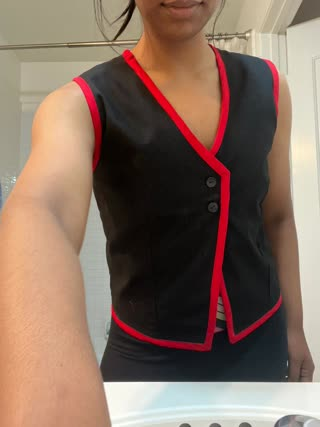
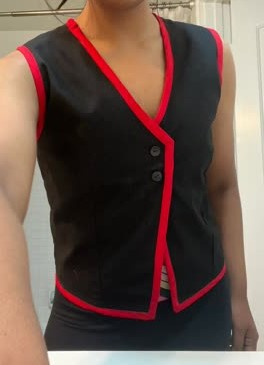
officially set up the pages and now must format headers

diff --git a/2D.html b/2D.html
@@ -7,7 +7,6 @@
     <link rel="stylesheet" href="2D.css">
     <!-- Add icon library -->
 <link rel="stylesheet" href="https://cdnjs.cloudflare.com/ajax/libs/font-awesome/4.7.0/css/font-awesome.min.css">
-<script src="2D.js" defer></script>
 </head>
 <body style="margin:0;">
 
@@ -18,7 +17,7 @@
     <h1><a href="Oil.html">Oil Painting</a></h1>
 
     <div class="marquee">
-      <ul class="marquee-content">
+      <ul class="placeholder">
         <li><img src="EA_B3_P17_Small.jpeg" alt="Gallery image 1" class="img"></li>
         <li><img src="EA_B3_P16_Small.jpeg" alt="Gallery image 1" class="img"></li>
         <li><img src="EA_B3_P14_Small.jpeg" alt="Gallery image 1" class="img"></li>
@@ -34,7 +33,7 @@
       <h1><a href="Watercolor.html">Watercolor</a></h1>
 
     <div class="marquee">
-      <ul class="marquee-content2">
+      <ul class="placeholder">
         <li><img src="WC_P_1.jpeg" alt="Gallery image 2" class="img"></li>
         <li><img src="WC_Cow_Small.jpeg" alt="Gallery image 2" class="img"></li>
         <li><img src="WC_Robin_Small.jpeg" alt="Gallery image 2" class="img"></li>
@@ -51,9 +50,9 @@
 
     <div class="marquee">
       <ul class="placeholder">
-        <li><img src="Acrylic_Airplane_Small.jpeg" alt="Gallery image 2" class="img"></li>
-        <li><img src="Acrylic_Rose_Small.jpeg" alt="Gallery image 2" class="img"></li>
-        <li><img src="Acrylic_TigerEye_Small.jpeg" alt="Gallery image 2" class="img"></li>
+        <li><img src="Airplane_Acrylic_Small.jpeg" alt="Gallery image 2" class="img"></li>
+        <li><img src="Rose_Acrylic_Small.jpeg" alt="Gallery image 2" class="img"></li>
+        <li><img src="TigerEye_Acrylic_Small.jpeg" alt="Gallery image 2" class="img"></li>
       </ul>
     </div>
 
@@ -75,6 +74,8 @@
     <div class="marquee">
       <ul class="placeholder">
       <li><img src="Woodburning_1_Small.jpeg" alt="Gallery image 1" class="img"></li>
+      <li><img src="Horse_WB_Small.jpeg" alt="Gallery image 1" class="img"></li>
+      <li><img src="Butterfly_WB_Small.jpeg" alt="Gallery image 1" class="img"></li>
       </ul>
     </div>
 

diff --git a/Acrylic.html b/Acrylic.html
@@ -16,9 +16,9 @@
         <button class="btn" onclick = "window.location.href='index.html';"><i class="fa fa-home"></i></button>
 
         <div class = "image-grid">
-            <img src="Acrylic_Airplane_Small.jpeg" alt="Gallery image 3" class="img">
-            <img src="Acrylic_TigerEye_Small.jpeg" alt="Gallery image 3" class="img">
-            <img src="Acrylic_Rose_Small.jpeg" alt="Gallery image 3" class="img">
+            <img src="Airplane_Acrylic_Small.jpeg" alt="Gallery image 3" class="img">
+            <img src="TigerEye_Acrylic_Small.jpeg" alt="Gallery image 3" class="img">
+            <img src="Rose_Acrylic_Small.jpeg" alt="Gallery image 3" class="img">
           </div>
 
     </div>

diff --git a/2D.css b/2D.css
@@ -50,33 +50,6 @@
 animation-play-state: paused;
 }
 
-.marquee-content2 {
-  list-style: none;
-  display: flex;
-  animation: scrolling var(--marquee-animation-duration) linear infinite;
-  height: 100%;
-  padding-left: 10px;
-}
-
-.marquee-content2 li {
-  display: flex;
-  justify-content: center;
-  align-items: center;
-  flex-shrink: 0;
-  width: var(--marquee-element-width);
-  white-space: nowrap;
-}
-
-.marquee-content2 li img {
-  width: 100%;
-  height: 300px;
-  border: 2px solid #eee;
-}
-
-.marquee-content2:hover {
-  animation-play-state: paused;
-  }
-
 .placeholder {
   list-style: none;
   display: flex;

diff --git a/Oil.html b/Oil.html
@@ -15,6 +15,7 @@
         <button class="btn" onclick = "window.location.href='index.html';"><i class="fa fa-home"></i></button>
 
         <div class = "image-grid">
+            <img src="EA_B4_P3_Small.jpeg" alt="Gallery image 1" class="img">
             <img src="EA_B4_A2_Small.jpeg" alt="Gallery image 1" class="img">
             <img src="EA_B4_A1_Small.jpeg" alt="Gallery image 1" class="img">
             <img src="EA_B3_A20_Small.jpeg" alt="Gallery image 1" class="img">

diff --git a/index.html b/index.html
@@ -43,7 +43,7 @@
         <li data-component class="smol-card-component">
           <h3>Branching Out</h3>
           <p>Experimenting with other forms of art pushes me out of my comfort zone. This corner is for my other hobbies!</p>
-          <img src='Woodburning_1.JPG' alt=''>
+          <img src='Vest_1_Small.jpeg' alt=''>
             <p style="text-align:center"><a href="BranchingOut.html">Check out the gallery!</a></p>
         </li>
       </ul>

diff --git a/Woodburning.html b/Woodburning.html
@@ -15,6 +15,8 @@
 
         <div class = "image-grid">
             <img src="Woodburning_1_Small.jpeg" alt="Gallery image 2" class="img">
+            <img src="Horse_WB_Small.jpeg" alt="Gallery image 1" class="img">
+            <img src="Butterfly_WB_Small.jpeg" alt="Gallery image 1" class="img">
           </div>
 
     </div>

diff --git a/test.html b/test.html
@@ -1,0 +1,17 @@
+<!DOCTYPE html>
+<html>
+<body>
+
+<h1>The Window Object</h1>
+<h2>The innerWidth and innerHeight Properties</h2>
+
+<p id="demo"></p>
+
+<script>
+let w = window.innerWidth;
+let h = window.innerHeight;
+document.getElementById("demo").innerHTML = "Width: " + w + "<br>Height: " + h;
+</script>
+
+</body>
+</html>

diff --git a/Paintings.css b/Paintings.css
@@ -125,4 +125,3 @@ footer {
     position: unset;
   }
 }
-}
